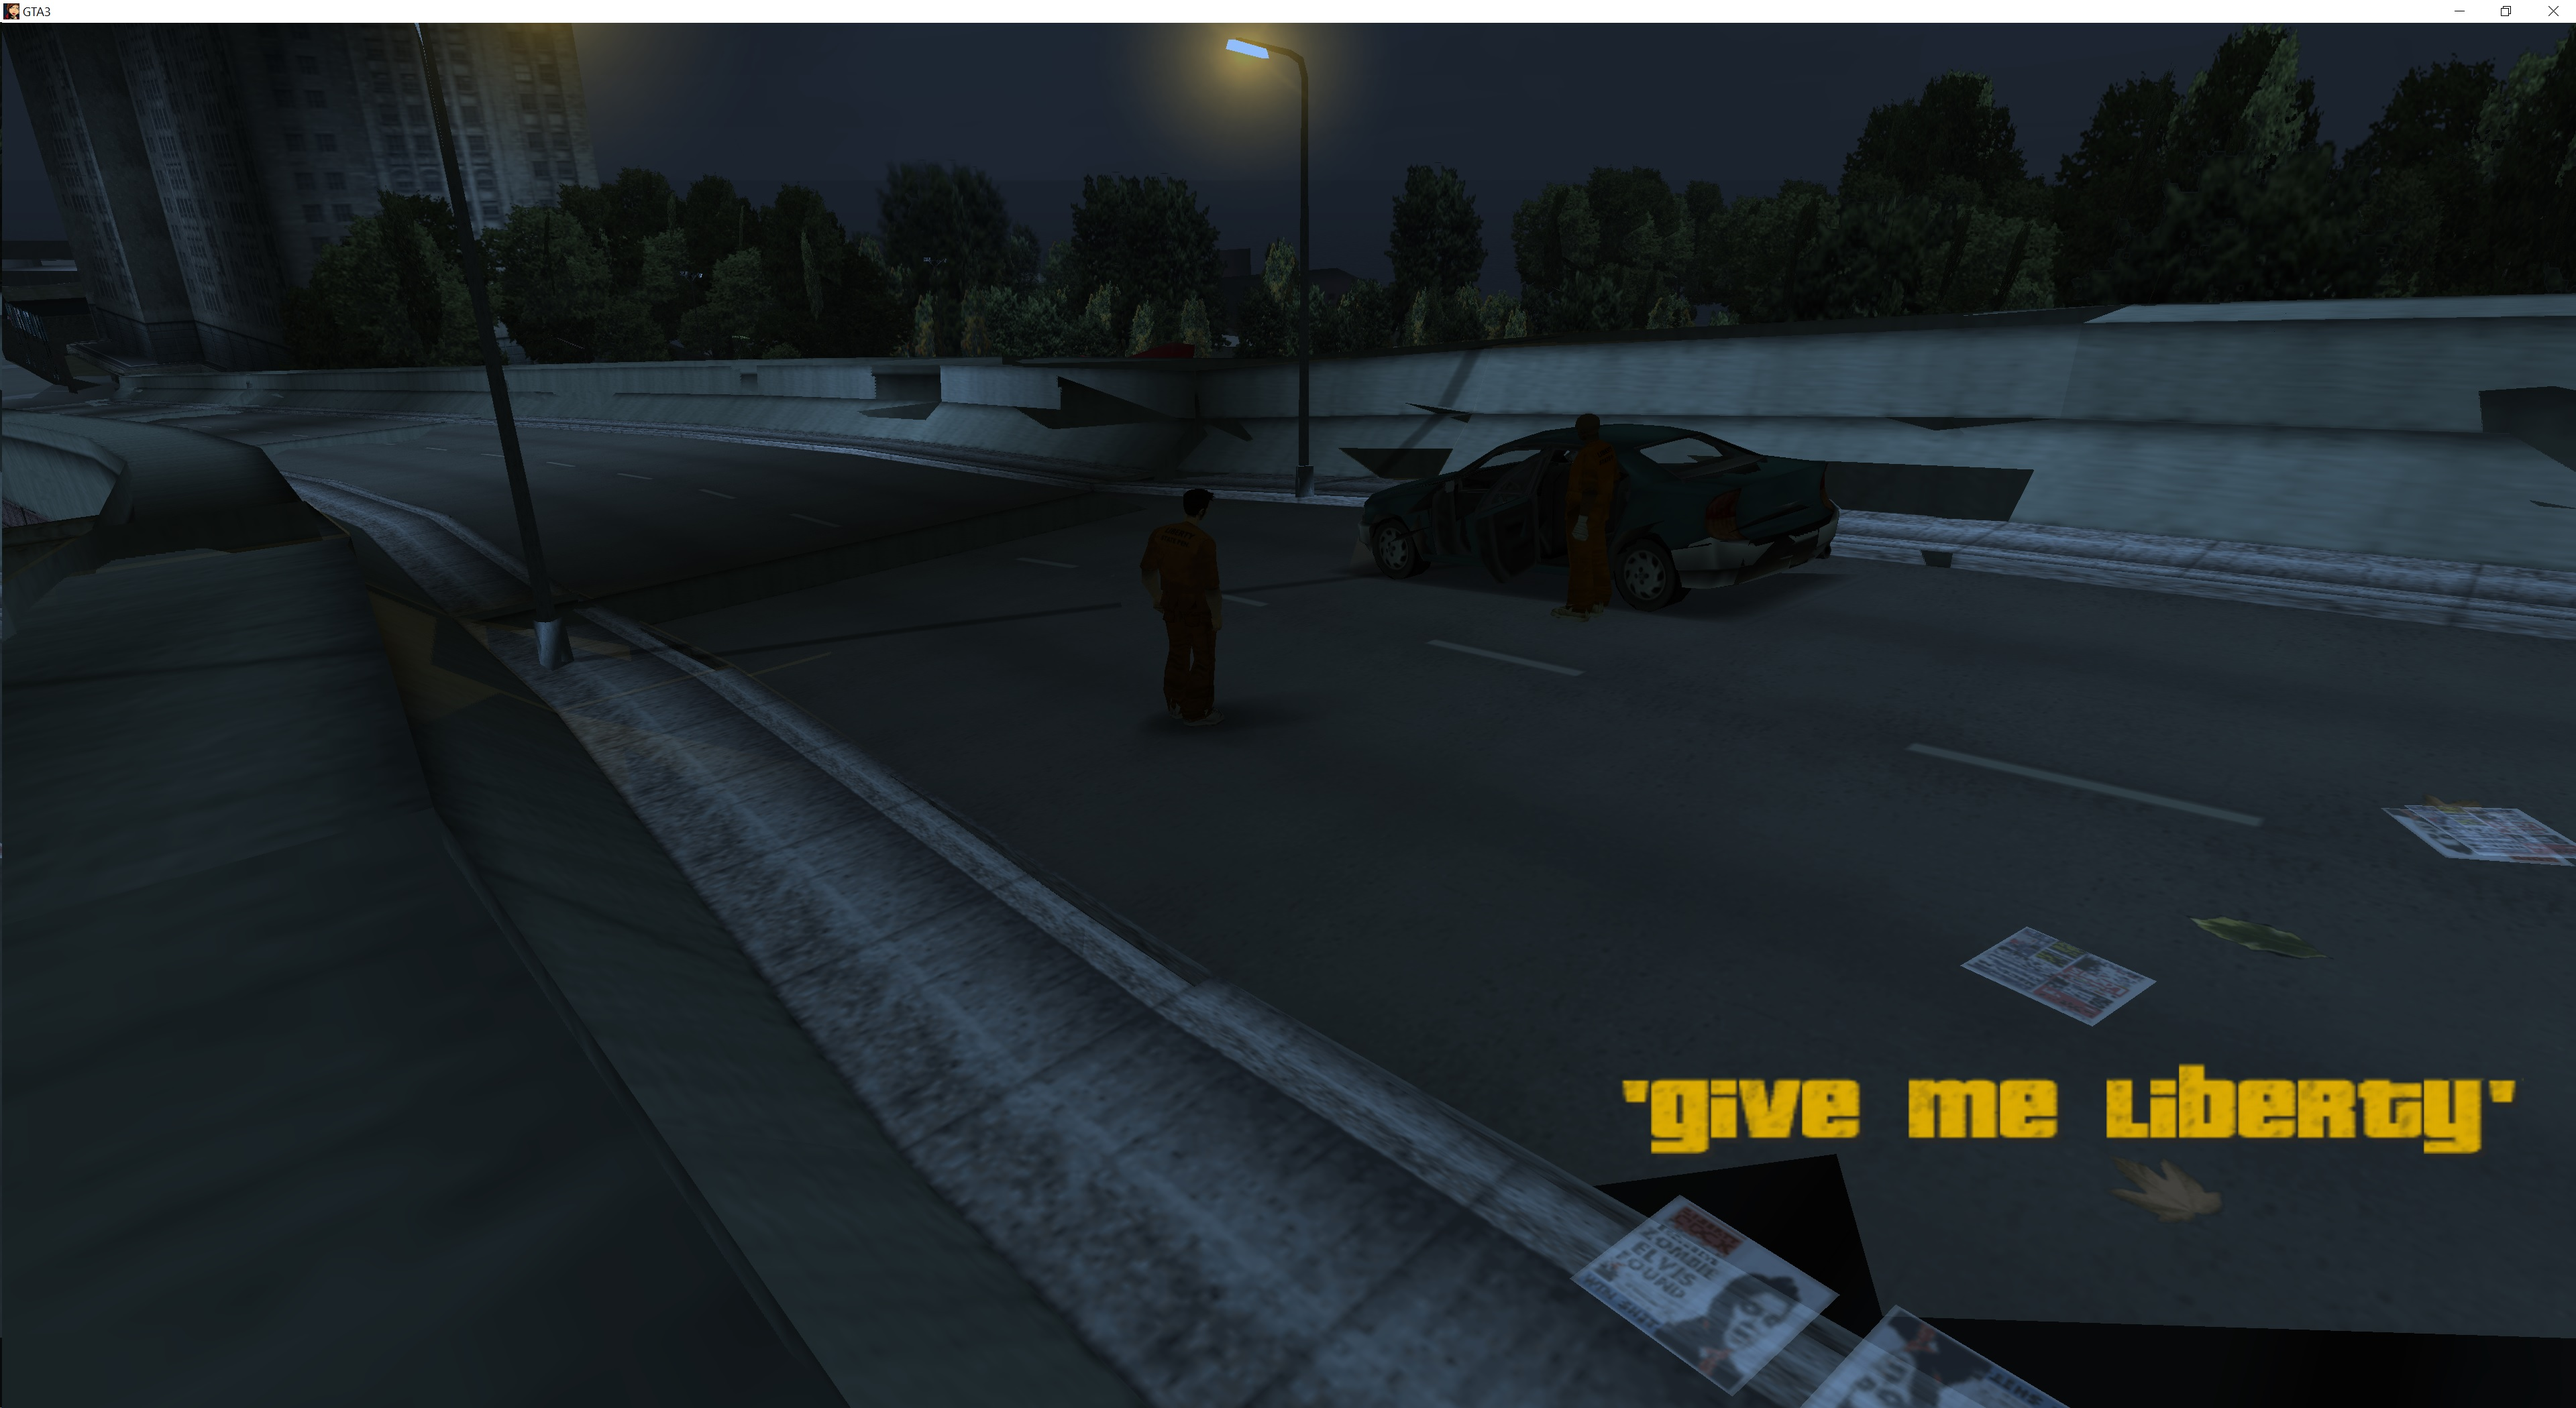
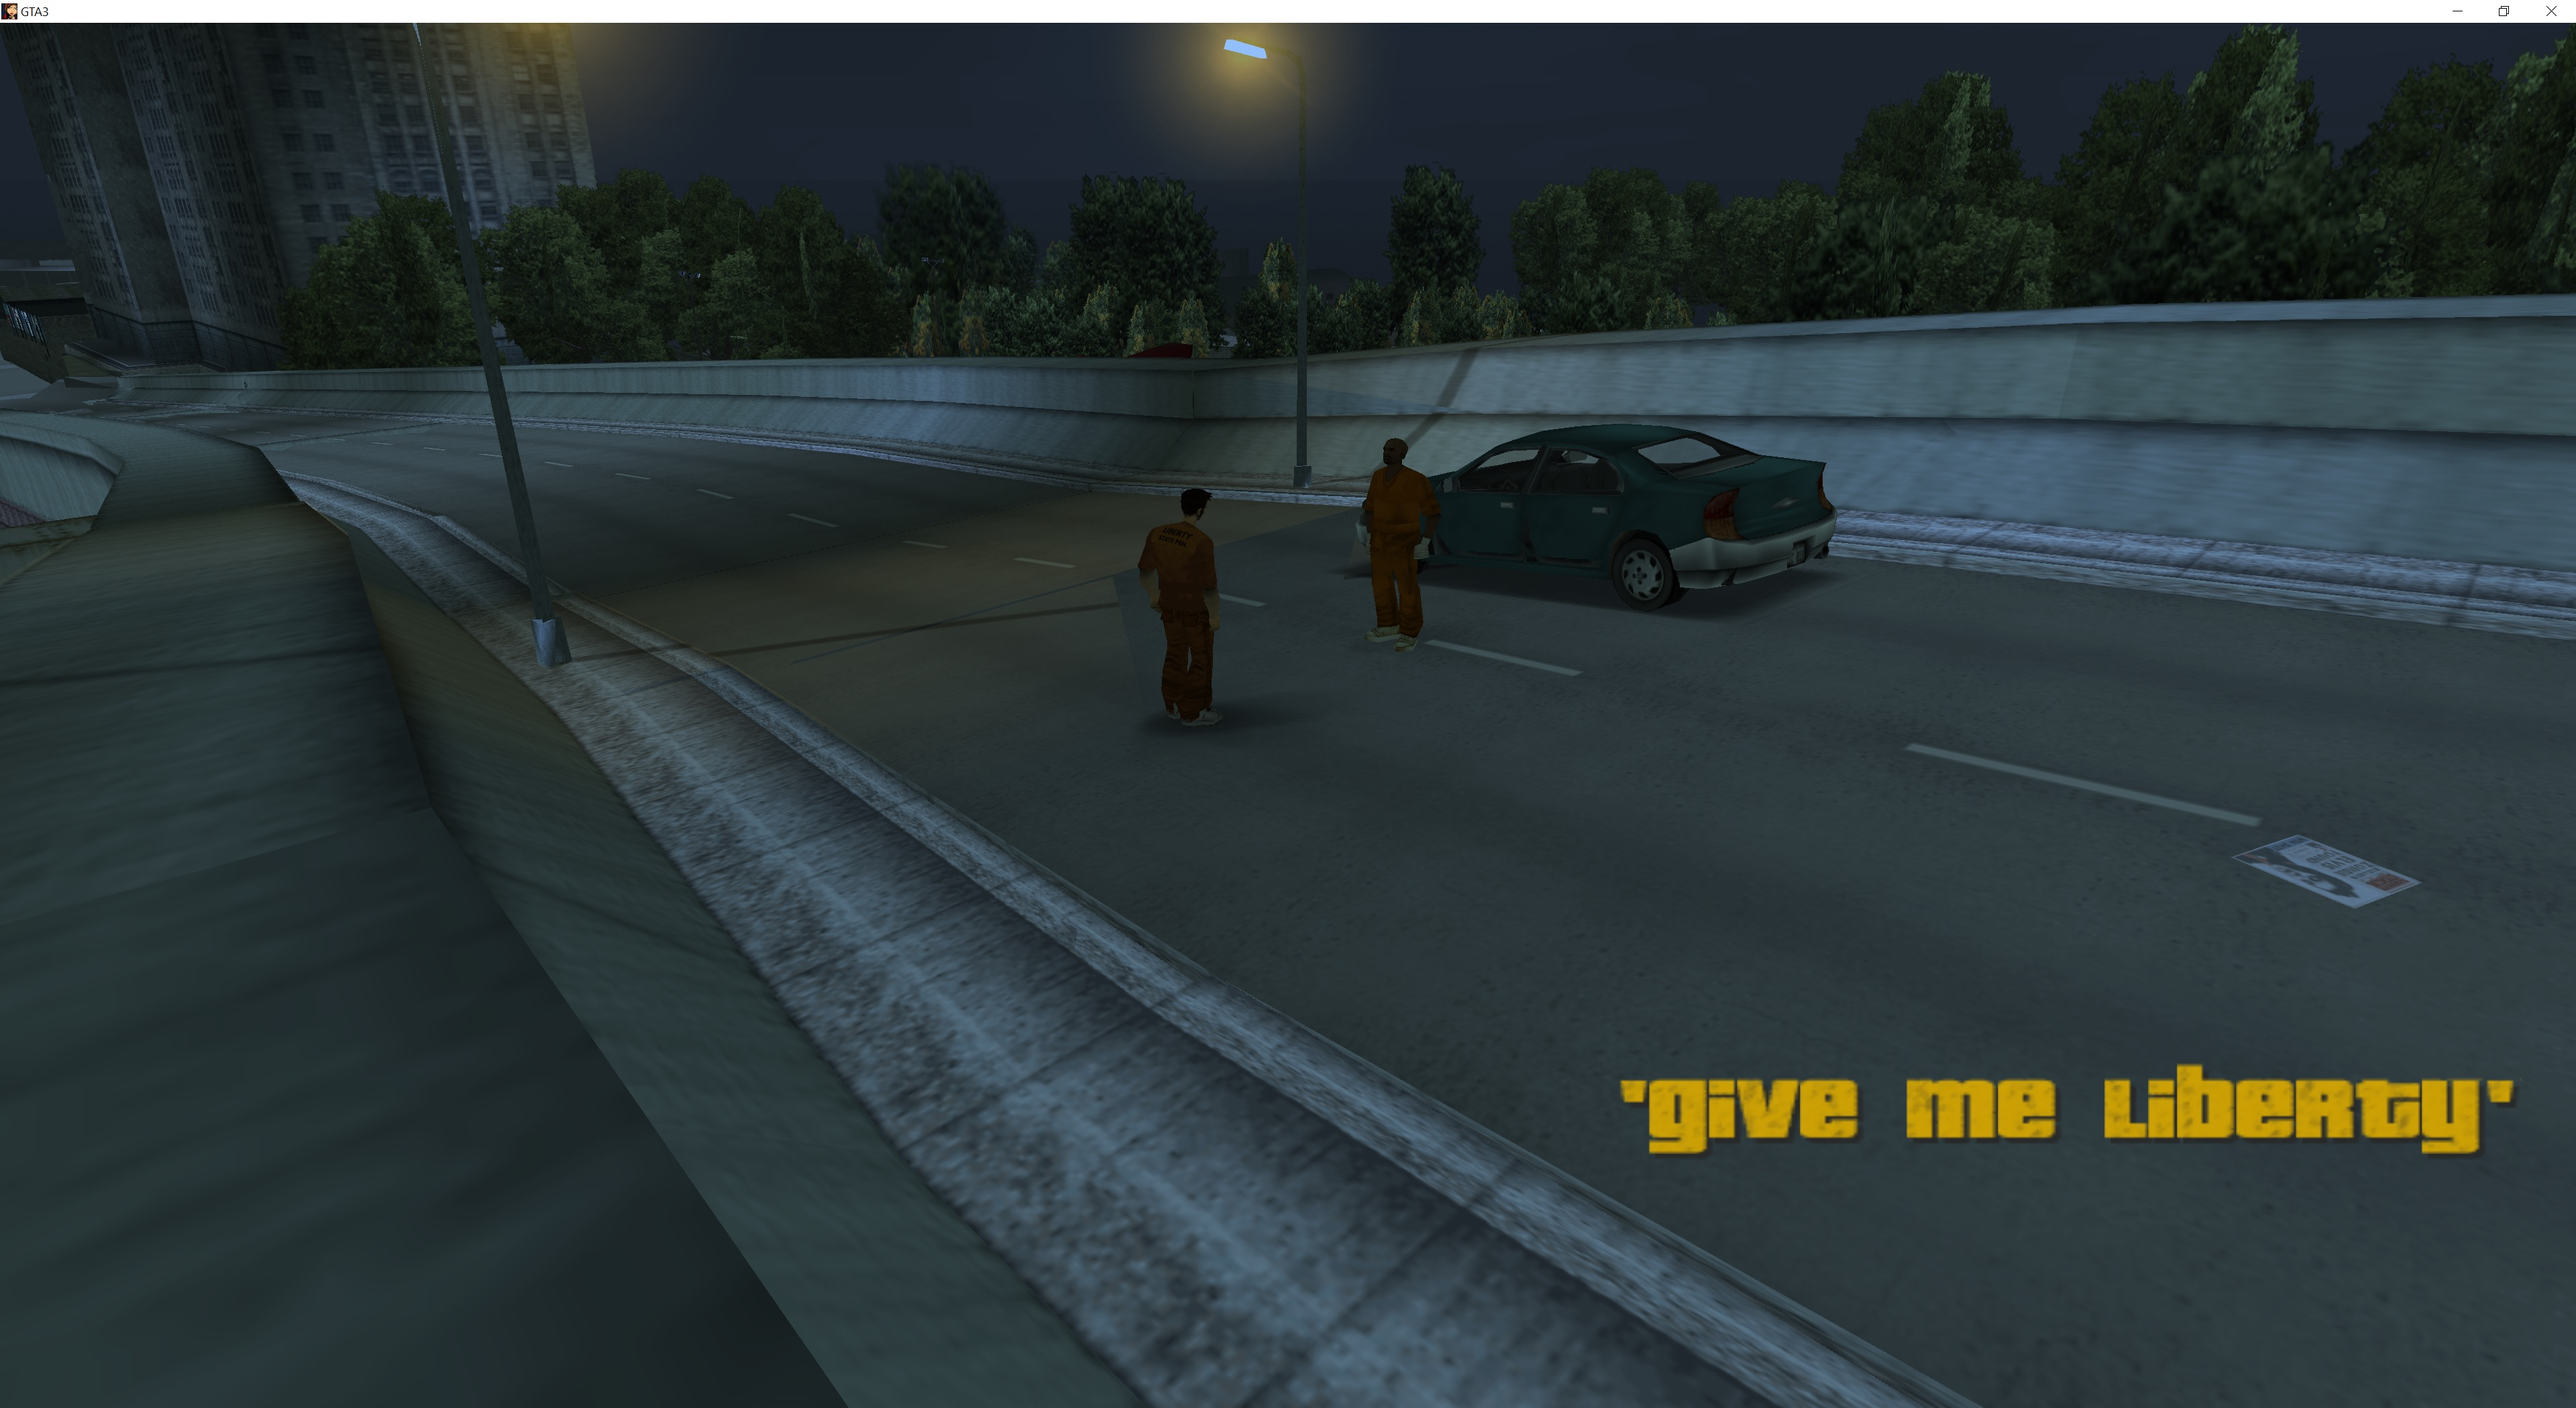
update screenshot & readme about the screenshot based on recent progress.

diff --git a/README.md b/README.md
@@ -81,8 +81,9 @@ GTA3 makes for such a great development target, running on OpenGL ES 2.0, so it 
 
 ![His hands are messed up](docs/more%20than%20his%20hands.jpg)
 
-Aside from his hands, a few triangles are also messed up, which will be addressed as development continues. To get the re3 GTA3 code base 
-to pick up the OpenGL ES 2.0 DLLs, you'll need to make a one line change in how it drives GLFW, feel free to reach out for instructions. 
+Aside from his hands, some of the lighting may also be messed up (bit dark, and main characters not lit well), which will be addressed 
+as development continues. To get the re3 GTA3 code base to pick up the OpenGL ES 2.0 DLLs, you'll need to make a one line change in 
+how it drives GLFW, feel free to reach out for instructions. 
 I'm not sure what Rockstar thinks of re3 itself (the project suddenly went quiet but the code is still out there) so I can't help there, 
 but it sure makes for such a great test case.
 
